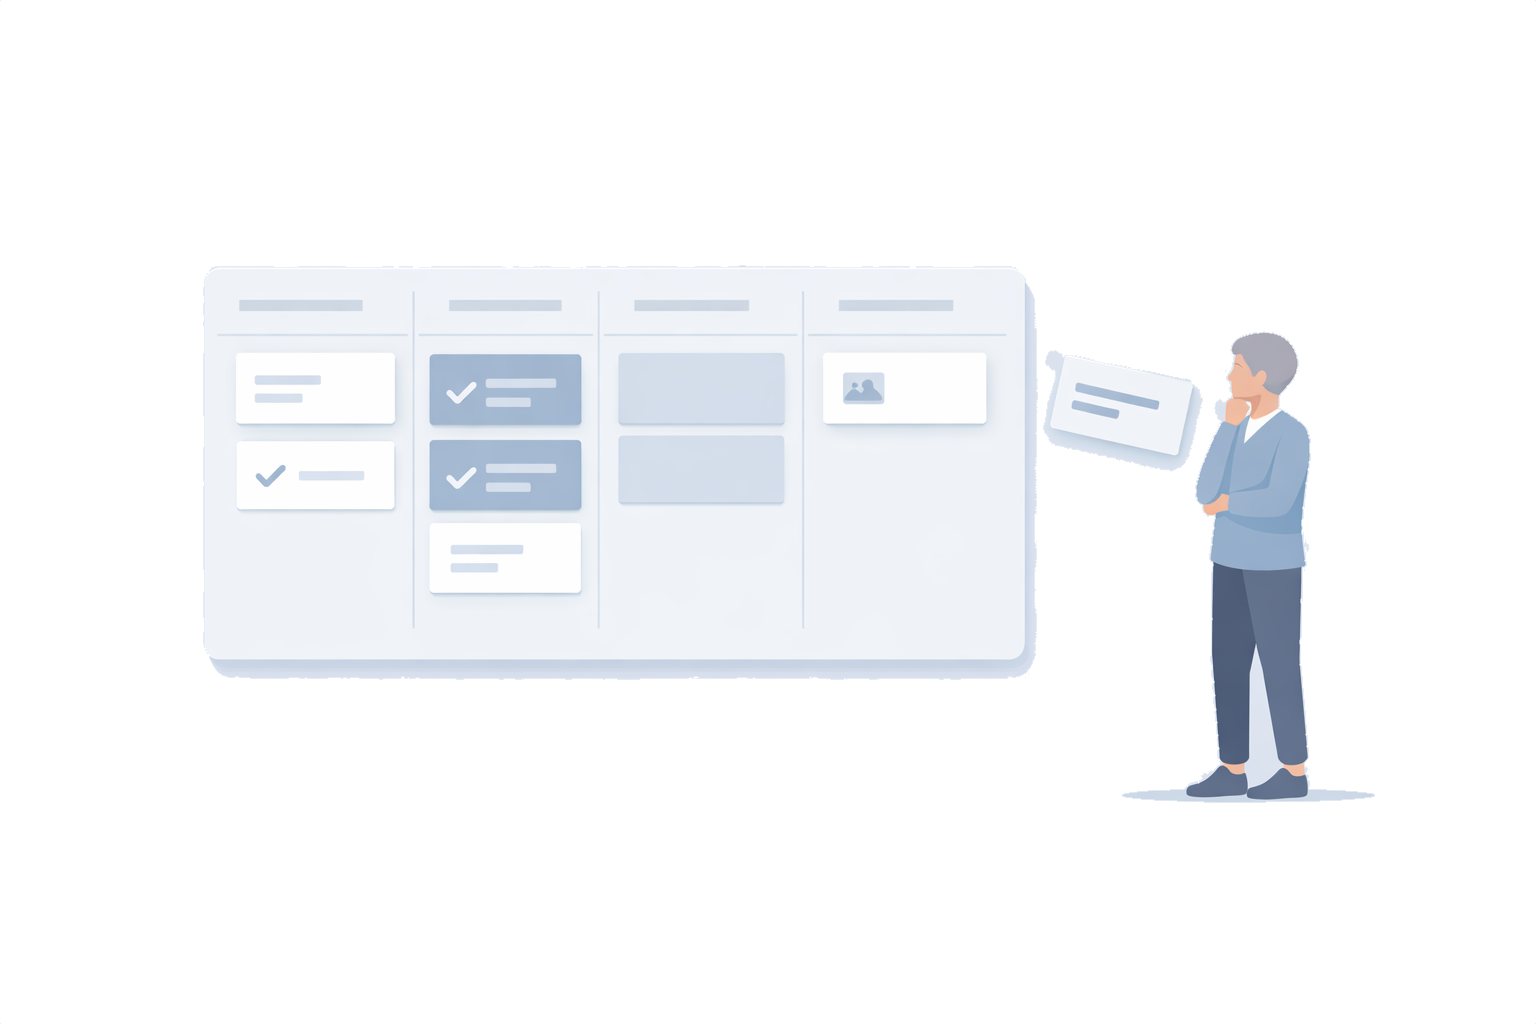
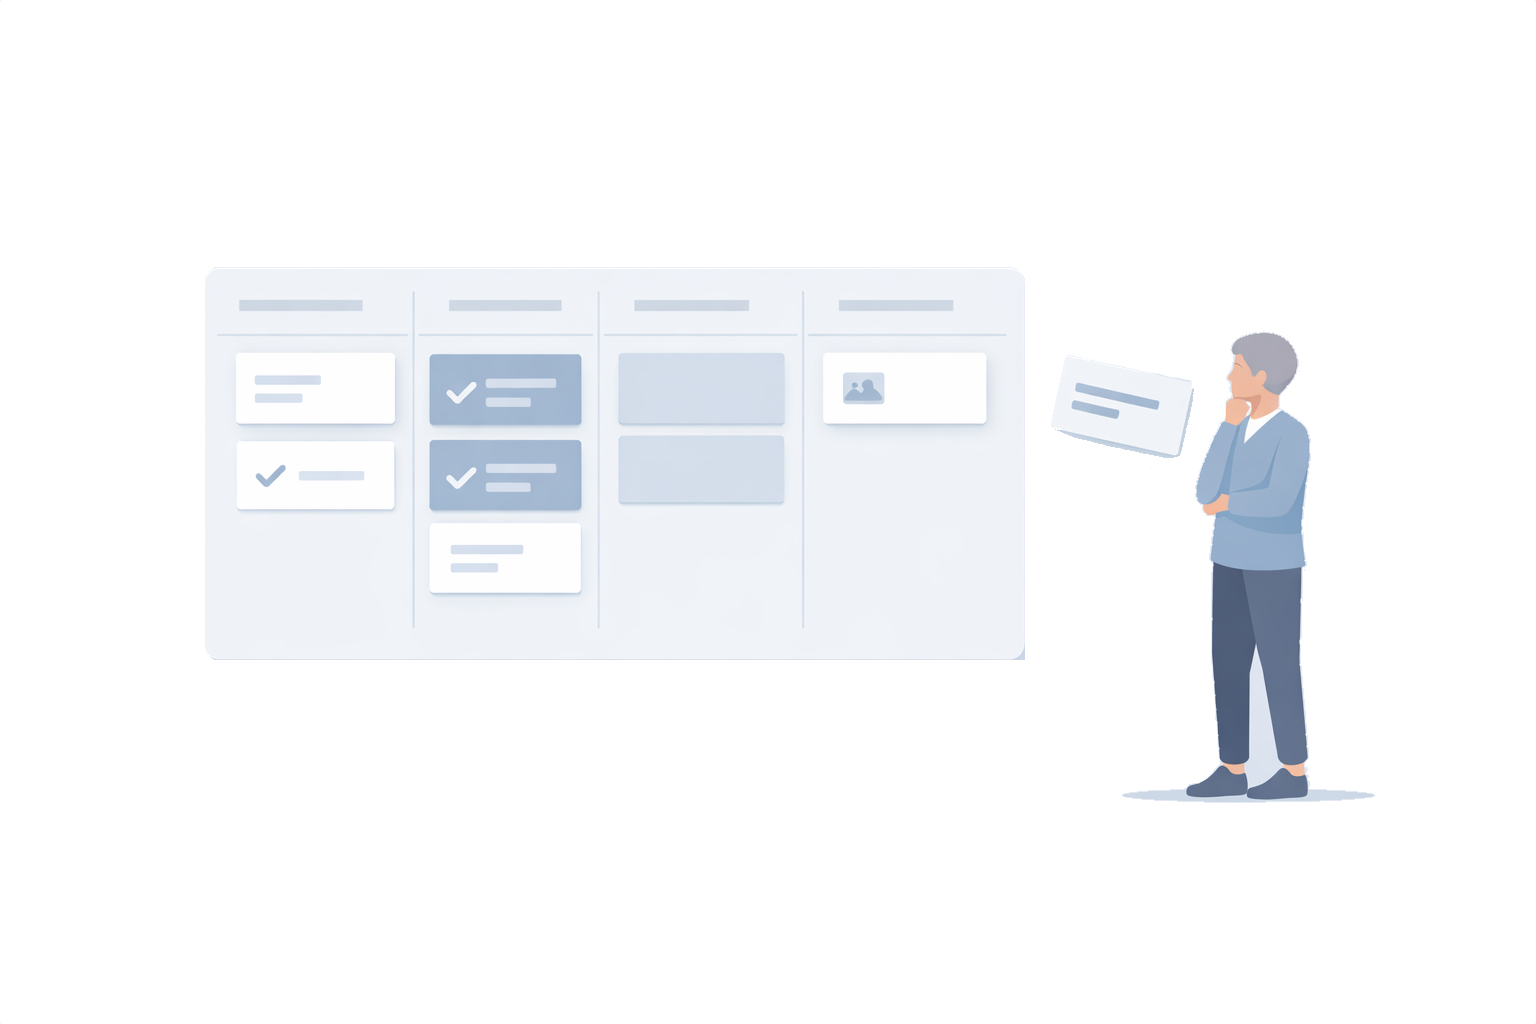
add toxt for column w/o cards, add img 404 for dark theme

Changed region(s): [[0.125, 0.2812, 0.7188, 0.6875], [0.7188, 0.375, 0.8125, 0.4688]]

diff --git a/src/components/Column/Column.styled.js b/src/components/Column/Column.styled.js
@@ -4,7 +4,7 @@ const StyledColumn = styled.div`
   width: 20%;
   margin: 0 auto;
   display: block;
-  @media screen and (${({theme}) => theme.devices.lg}) {
+  @media screen and (${({ theme }) => theme.devices.lg}) {
     width: 100%;
     margin: 0 auto;
     display: block;
@@ -14,8 +14,8 @@ const StyledColumn = styled.div`
 const ColumnTitle = styled.div`
   padding: 0 10px;
   margin: 15px 0;
-  color: ${({theme}) => theme.colors.text.secondary};
-  font-size: ${({theme}) => theme.fonts.size.sm};
+  color: ${({ theme }) => theme.colors.text.secondary};
+  font-size: ${({ theme }) => theme.fonts.size.sm};
   font-weight: 600;
   line-height: 1;
   text-transform: uppercase;
@@ -25,7 +25,10 @@ const ColumnCards = styled.div`
   width: 100%;
   display: block;
   position: relative;
-  @media screen and (${({theme}) => theme.devices.lg}) {
+  color: ${({ theme }) => theme.colors.text.secondary};
+  font-style: italic;
+  text-align: center;
+  @media screen and (${({ theme }) => theme.devices.lg}) {
     display: flex;
     overflow-y: auto;
   }

diff --git a/src/components/NotFound/NotFound.jsx b/src/components/NotFound/NotFound.jsx
@@ -8,9 +8,13 @@ import {
   NFTextBlock,
   NFTitle,
 } from "./NotFound.styled";
+import { useContext } from "react";
+import { ThemeModeContext } from "../../context/ThemeModeContext";
 
-const NotFound = (theme = "light") => {
-  const logoUrl = theme === "dark" ? "public/logo_dark.png" : "public/logo.png";
+const NotFound = () => {
+  const { theme } = useContext(ThemeModeContext);
+  const logoUrl = theme === "dark" ? "/logo_dark.png" : "/logo.png";
+  const notFoundUrl = theme === "dark" ? "/404_dark.png" : "/404.png";
   return (
     <>
       <StyledHeader>
@@ -23,7 +27,7 @@ const NotFound = (theme = "light") => {
         </HeaderBlock>
       </StyledHeader>
       <NFBlock>
-        <NFImg src="public/404.png" />
+        <NFImg src={notFoundUrl} />
         <NFTextBlock>
           <NFTitle>404</NFTitle>
           <NFText>Страница не найдена</NFText>

diff --git a/src/components/Column/Column.jsx b/src/components/Column/Column.jsx
@@ -4,13 +4,11 @@ import { ColumnCards, ColumnTitle, StyledColumn } from "./Column.styled";
 const Column = ({ title, cards }) => {
   return (
     <StyledColumn>
-      <ColumnTitle>
-        {title.toUpperCase()}
-      </ColumnTitle>
+      <ColumnTitle>{title.toUpperCase()}</ColumnTitle>
       <ColumnCards>
-        {cards.map((card) => (
-          <Card key={card._id} card={card} />
-        ))}
+        {cards.length === 0
+          ? "Новых задач нет"
+          : cards.map((card) => <Card key={card._id} card={card} />)}
       </ColumnCards>
     </StyledColumn>
   );
